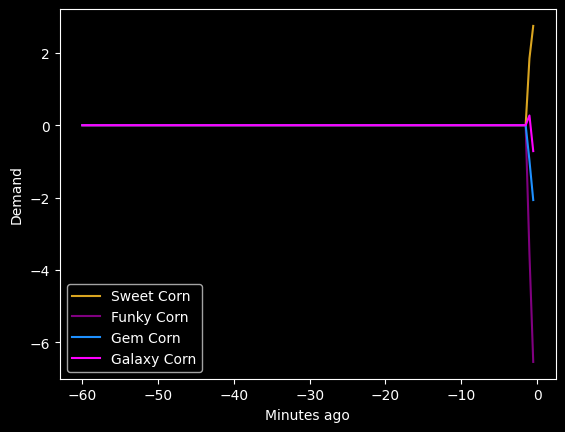
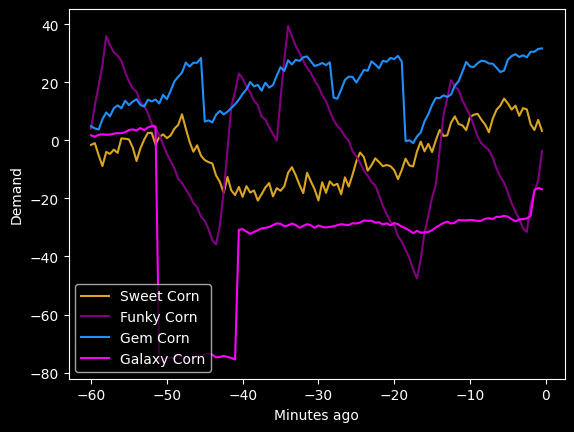
adjusted timing

diff --git a/CornPrices/utils/MarketManager.py b/CornPrices/utils/MarketManager.py
@@ -32,4 +32,4 @@ async def manage_market(bot):
         plt.legend(loc=3)
         save_game(game)
         save_plot(plt)
-        await asyncio.sleep(60)
+        await asyncio.sleep(30)
